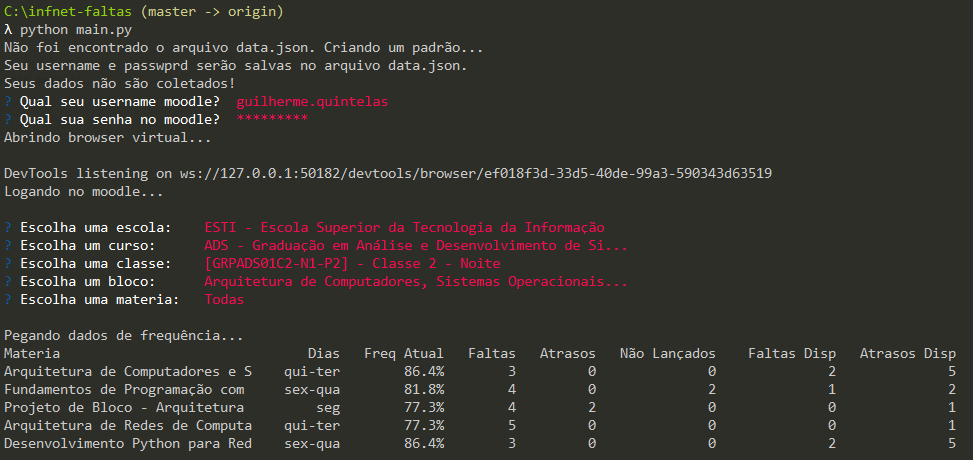
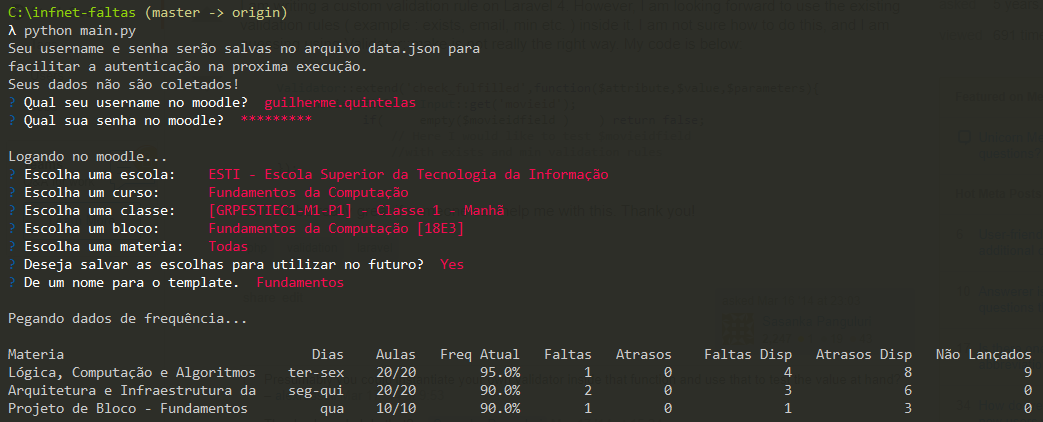
update readme

diff --git a/README.md b/README.md
@@ -16,8 +16,10 @@ python main.py
 ```
 
 
-**Funções da versão 1.3**:
+**Funções da versão 2.0**:
 - guardar dados de autenticação para futuras consultas
+- Sistema de templates, podendo guardar suas escolhas para futuras execuções<br>
+![Test Run](https://github.com/guiquintelas/infnet-faltas/blob/master/static/print_template.png)
 - possivel selecionar dentre essas categorias:
   - escola
   - curso
